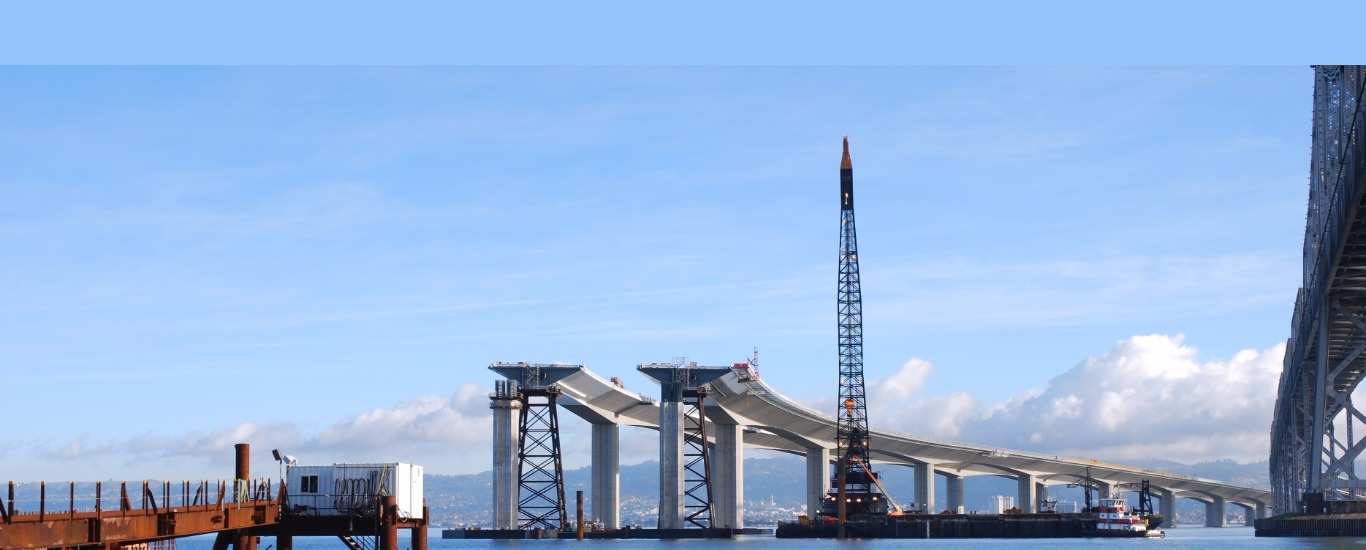
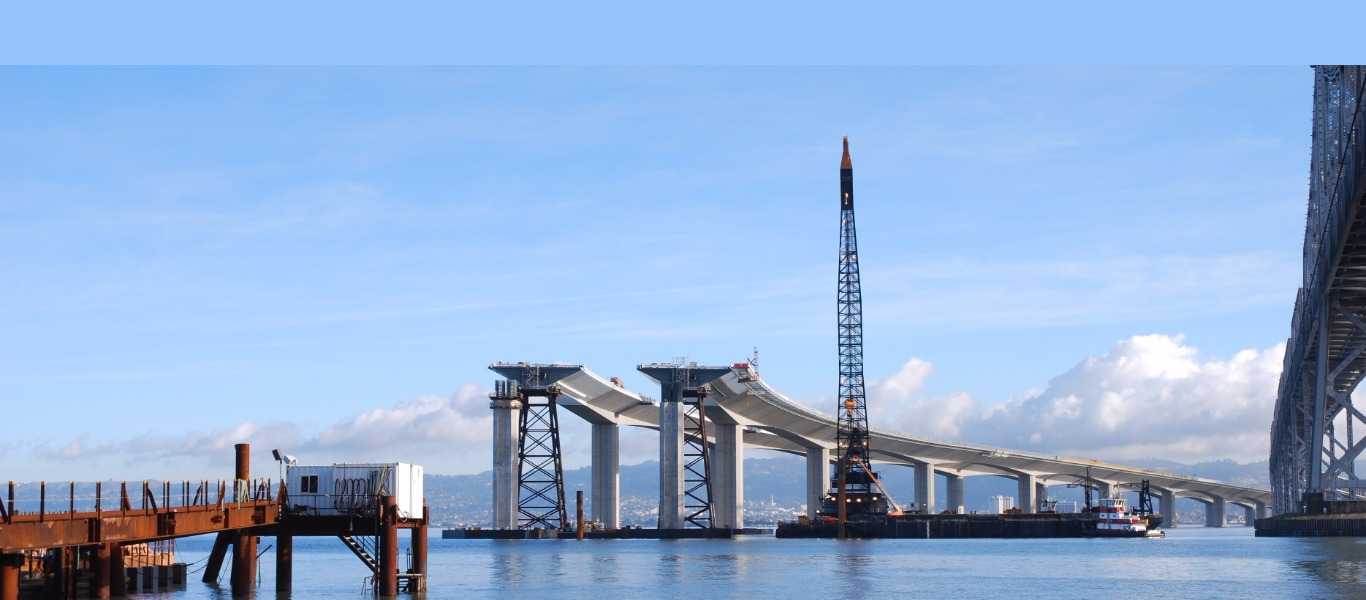
fit water slider upd

diff --git a/.history/index_20190212114750.html b/.history/index_20190212114750.html
@@ -101,6 +101,84 @@
                 </div>
                 <!-- END MasterSlider Main -->
                 <!-- About -->
+                <section id="white_space">
+                    <br>
+                    <br>
+                    <br>
+                </section>
+                <div id="FAQ" class="shortcode-html">
+                    <!-- Hero Info #15 -->
+                    <div class="g-bg-img-hero g-bg-pos-top-center g-bg-size-cover g-bg-cover g-bg-white-gradient-opacity-v4--after" style="background-image: url(assets/img/index/services/services_main.jpg);">
+                        <div class="container g-pos-rel g-z-index-1">
+                            <div class="row justify-content-between">
+                                <div class="col-md-5 g-py-100">
+                                    <div class="w-100"> 
+                                        <div class="g-brd-primary u-heading-v2-2--bottom"> 
+                                            <h2 class="text-uppercase g-line-height-1_1 g-font-weight-700 g-font-size-26 g-mb-15">SERVICES</h2> 
+                                            <p class="mb-0">Municon West Coast provides geotechnical and structural instrumentation services for monitoring of heavy construction works including highways, tunnels, deep excavations, heavy fills and bridges.</p>
+                                            <p class="mb-0">We upload, manage and host all of your content for you on our secure online servers, allowing you to interact with your content and your project team anytime, anywhere</p>
+                                        </div>                                         
+                                        <div id="FAQAccordion"> 
+                                            <div class="card g-brd-none"> 
+                                                <div id="FAQAccordionHeading1" class="card-header u-accordion__header g-pos-rel g-bg-transparent g-brd-none rounded-0 g-py-10 g-px-30"> 
+                                                    <a class="g-font-weight-700 g-font-size-18" href="#FAQAccordionBody1" aria-expanded="true" aria-controls="FAQAccordionBody1" data-toggle="collapse" data-parent="#FAQAccordion"> <span class="u-accordion__control-icon g-absolute-centered--y g-left-0 g-color-primary"> <i class="fa fa-plus"></i> <i class="fa fa-minus"></i> </span> 
+                        Photo and video documentation </a> 
+                                                </div>                                                 
+                                                <div id="FAQAccordionBody1" class="collapse show" aria-labelledby="FAQAccordionHeading1"> 
+                                                    <div class="card-block u-accordion__body g-py-10 g-px-30"> 
+                                                        <p class="g-line-height-1_5 mb-0">The photo and video documentation provides the contractor and property owners against unsupported claims of construction-generated damages</p>
+                                                        <br/>
+                                                        <a class="btn btn-md text-uppercase u-btn-darkgray g-font-weight-700 g-font-size-12 g-brd-none g-rounded-4 g-py-15 g-px-15 g-px-35--md" href="photo_video.html">read more</a> 
+                                                    </div>                                                     
+                                                </div>                                                 
+                                            </div>                                             
+                                            <div class="card g-brd-none"> 
+                                                <div id="FAQAccordionHeading2" class="card-header u-accordion__header g-pos-rel g-bg-transparent g-brd-none rounded-0 g-py-10 g-px-30"> 
+                                                    <a class="g-font-weight-700 g-font-size-18 collapsed" href="#FAQAccordionBody2" aria-expanded="false" aria-controls="FAQAccordionBody2" data-toggle="collapse" data-parent="#FAQAccordion"> <span class="u-accordion__control-icon g-absolute-centered--y g-left-0 g-color-primary"> <i class="fa fa-plus"></i> <i class="fa fa-minus"></i> </span> 
+                       Vibration Monitoring </a> 
+                                                </div>                                                 
+                                                <div id="FAQAccordionBody2" class="collapse" aria-labelledby="FAQAccordionHeading2"> 
+                                                    <div class="card-block u-accordion__body g-py-10 g-px-30"> 
+                                                        <p class="g-line-height-1_5 mb-0">Municon West Coast provides vibration monitoring of heavy construction operations such as blasting, mass excavation, pile driving, rapid impact compaction, heavy demolition, deep dynamic compaction, and ground improvement installation</p>
+                                                        <br/>
+                                                        <a class="btn btn-md text-uppercase u-btn-darkgray g-font-weight-700 g-font-size-12 g-brd-none g-rounded-4 g-py-15 g-px-15 g-px-35--md" href="vibration.html">read more</a> 
+                                                    </div>                                                     
+                                                </div>                                                 
+                                            </div>                                             
+                                            <div class="card g-brd-none"> 
+                                                <div id="FAQAccordionHeading3" class="card-header u-accordion__header g-pos-rel g-bg-transparent g-brd-none rounded-0 g-py-10 g-px-30"> 
+                                                    <a class="g-font-weight-700 g-font-size-18 collapsed" href="#FAQAccordionBody3" aria-expanded="false" aria-controls="FAQAccordionBody3" data-toggle="collapse" data-parent="#FAQAccordion"> <span class="u-accordion__control-icon g-absolute-centered--y g-left-0 g-color-primary"> <i class="fa fa-plus"></i> <i class="fa fa-minus"></i> </span> 
+                       Sound Monitoring </a> 
+                                                </div>                                                 
+                                                <div id="FAQAccordionBody3" class="collapse" aria-labelledby="FAQAccordionHeading3"> 
+                                                    <div class="card-block u-accordion__body g-py-10 g-px-30"> 
+                                                        <p class="g-line-height-1_5 mb-0">Municon West Coast provides long-term continuous sound monitoring with automated remote reading capabilities for documenting compliance with local noise ordinances</p>
+                                                        <br/>
+                                                        <a class="btn btn-md text-uppercase u-btn-darkgray g-font-weight-700 g-font-size-12 g-brd-none g-rounded-4 g-py-15 g-px-15 g-px-35--md" href="sound.html">read more</a> 
+                                                    </div>                                                     
+                                                </div>                                                 
+                                            </div>                                             
+                                            <div class="card g-brd-none"> 
+                                                <div id="FAQAccordionHeading4" class="card-header u-accordion__header g-pos-rel g-bg-transparent g-brd-none rounded-0 g-py-10 g-px-30"> 
+                                                    <a class="g-font-weight-700 g-font-size-18 collapsed" href="#FAQAccordionBody4" aria-expanded="false" aria-controls="FAQAccordionBody4" data-toggle="collapse" data-parent="#FAQAccordion"> <span class="u-accordion__control-icon g-absolute-centered--y g-left-0 g-color-primary"> <i class="fa fa-plus"></i> <i class="fa fa-minus"></i> </span> 
+                        Geotechnical Instrumentation </a> 
+                                                </div>                                                 
+                                                <div id="FAQAccordionBody4" class="collapse" aria-labelledby="FAQAccordionHeading4"> 
+                                                    <div class="card-block u-accordion__body g-py-10 g-px-30"> 
+                                                        <p class="g-line-height-1_5 mb-0">Municon West Coast provides geotechnical instrumentation services for heavy construction operations such as deep excavations, highways, bridges, dams, tunnels, and underpinning works. We offer a wide range of geotechnical instrumentation equipment</p>
+                                                        <br/>
+                                                        <a class="btn btn-md text-uppercase u-btn-darkgray g-font-weight-700 g-font-size-12 g-brd-none g-rounded-4 g-py-15 g-px-15 g-px-35--md" href="geotechnical.html">read more</a> 
+                                                    </div>                                                     
+                                                </div>                                                 
+                                            </div>                                             
+                                        </div>                                         
+                                    </div>
+                                </div>
+                            </div>
+                        </div>
+                    </div>
+                    <!-- Hero Info #15 -->
+                </div>
                 <!-- End About -->
                 <!-- Icon Blocks -->
                 <!-- End Icon Blocks -->
@@ -117,24 +195,6 @@
                     <div class="container text-center g-width-760 u-heading-v2-2--bottom g-brd-primary"> 
                         <h2 class="text-uppercase g-line-height-1_1 g-font-weight-700 g-font-size-26 g-mb-15">CONTACT US</h2> 
                         <p class="mb-0">We would be happy to answer your questions and inquiries</p> 
-                    </div>
-                    <div class="row">
-                        <div class="col-lg-8 offset-lg-2"> 
-                            <form> 
-                                <div class="row"> 
-                                    <div class="col-lg-12 form-group g-mb-20"> 
-                                        <input class="form-control g-font-size-default g-color-gray-dark-v5 g-placeholder-inherit g-bg-gray-light-v5 g-brd-gray-light-v5 g-brd-primary--focus g-color-gray-dark-v5 g-rounded-4 g-py-13 g-px-12" type="text" placeholder="Your name"> 
-                                    </div>                                     
-                                    <div class="col-lg-12 form-group g-mb-20"> 
-                                        <input class="form-control g-font-size-default g-color-gray-dark-v5 g-placeholder-inherit g-bg-gray-light-v5 g-brd-gray-light-v5 g-brd-primary--focus g-color-gray-dark-v5 g-rounded-4 g-py-13 g-px-12" type="tel" placeholder="Your email *"> 
-                                    </div>                                     
-                                    <div class="col-lg-12 form-group g-mb-20"> 
-                                        <textarea class="form-control g-font-size-default g-color-gray-dark-v5 g-placeholder-inherit g-resize-none g-bg-gray-light-v5 g-brd-gray-light-v5 g-brd-primary--focus g-color-gray-dark-v5 g-rounded-4 g-py-13 g-px-12" rows="5" placeholder="Message"></textarea>                                         
-                                    </div>                                     
-                                </div>                                 
-                                <button class="btn btn-md btn-block text-uppercase u-btn-primary g-font-weight-700 g-font-size-12 g-brd-none g-rounded-4 g-py-12 g-px-15" type="submit" role="button">Submit</button>                                 
-                            </form>                             
-                        </div>
                     </div>                     
                     <!-- Google Map -->                     
                     <!-- End Google Map -->                     
@@ -262,7 +322,7 @@
 
     slider.setup("masterslider", {
       width: 1366,
-      height: 600,
+      height: 650,
       minHeight: 0,
       space: 0,
       start: 1,

diff --git a/index_original_hero_size.html b/index_original_hero_size.html
@@ -101,6 +101,84 @@
                 </div>
                 <!-- END MasterSlider Main -->
                 <!-- About -->
+                <section id="white_space">
+                    <br>
+                    <br>
+                    <br>
+                </section>
+                <div id="FAQ" class="shortcode-html">
+                    <!-- Hero Info #15 -->
+                    <div class="g-bg-img-hero g-bg-pos-top-center g-bg-size-cover g-bg-cover g-bg-white-gradient-opacity-v4--after" style="background-image: url(assets/img/index/services/services_main.jpg);">
+                        <div class="container g-pos-rel g-z-index-1">
+                            <div class="row justify-content-between">
+                                <div class="col-md-5 g-py-100">
+                                    <div class="w-100"> 
+                                        <div class="g-brd-primary u-heading-v2-2--bottom"> 
+                                            <h2 class="text-uppercase g-line-height-1_1 g-font-weight-700 g-font-size-26 g-mb-15">SERVICES</h2> 
+                                            <p class="mb-0">Municon West Coast provides geotechnical and structural instrumentation services for monitoring of heavy construction works including highways, tunnels, deep excavations, heavy fills and bridges.</p>
+                                            <p class="mb-0">We upload, manage and host all of your content for you on our secure online servers, allowing you to interact with your content and your project team anytime, anywhere</p>
+                                        </div>                                         
+                                        <div id="FAQAccordion"> 
+                                            <div class="card g-brd-none"> 
+                                                <div id="FAQAccordionHeading1" class="card-header u-accordion__header g-pos-rel g-bg-transparent g-brd-none rounded-0 g-py-10 g-px-30"> 
+                                                    <a class="g-font-weight-700 g-font-size-18" href="#FAQAccordionBody1" aria-expanded="true" aria-controls="FAQAccordionBody1" data-toggle="collapse" data-parent="#FAQAccordion"> <span class="u-accordion__control-icon g-absolute-centered--y g-left-0 g-color-primary"> <i class="fa fa-plus"></i> <i class="fa fa-minus"></i> </span> 
+                        Photo and video documentation </a> 
+                                                </div>                                                 
+                                                <div id="FAQAccordionBody1" class="collapse show" aria-labelledby="FAQAccordionHeading1"> 
+                                                    <div class="card-block u-accordion__body g-py-10 g-px-30"> 
+                                                        <p class="g-line-height-1_5 mb-0">The photo and video documentation provides the contractor and property owners against unsupported claims of construction-generated damages</p>
+                                                        <br/>
+                                                        <a class="btn btn-md text-uppercase u-btn-darkgray g-font-weight-700 g-font-size-12 g-brd-none g-rounded-4 g-py-15 g-px-15 g-px-35--md" href="photo_video.html">read more</a> 
+                                                    </div>                                                     
+                                                </div>                                                 
+                                            </div>                                             
+                                            <div class="card g-brd-none"> 
+                                                <div id="FAQAccordionHeading2" class="card-header u-accordion__header g-pos-rel g-bg-transparent g-brd-none rounded-0 g-py-10 g-px-30"> 
+                                                    <a class="g-font-weight-700 g-font-size-18 collapsed" href="#FAQAccordionBody2" aria-expanded="false" aria-controls="FAQAccordionBody2" data-toggle="collapse" data-parent="#FAQAccordion"> <span class="u-accordion__control-icon g-absolute-centered--y g-left-0 g-color-primary"> <i class="fa fa-plus"></i> <i class="fa fa-minus"></i> </span> 
+                       Vibration Monitoring </a> 
+                                                </div>                                                 
+                                                <div id="FAQAccordionBody2" class="collapse" aria-labelledby="FAQAccordionHeading2"> 
+                                                    <div class="card-block u-accordion__body g-py-10 g-px-30"> 
+                                                        <p class="g-line-height-1_5 mb-0">Municon West Coast provides vibration monitoring of heavy construction operations such as blasting, mass excavation, pile driving, rapid impact compaction, heavy demolition, deep dynamic compaction, and ground improvement installation</p>
+                                                        <br/>
+                                                        <a class="btn btn-md text-uppercase u-btn-darkgray g-font-weight-700 g-font-size-12 g-brd-none g-rounded-4 g-py-15 g-px-15 g-px-35--md" href="vibration.html">read more</a> 
+                                                    </div>                                                     
+                                                </div>                                                 
+                                            </div>                                             
+                                            <div class="card g-brd-none"> 
+                                                <div id="FAQAccordionHeading3" class="card-header u-accordion__header g-pos-rel g-bg-transparent g-brd-none rounded-0 g-py-10 g-px-30"> 
+                                                    <a class="g-font-weight-700 g-font-size-18 collapsed" href="#FAQAccordionBody3" aria-expanded="false" aria-controls="FAQAccordionBody3" data-toggle="collapse" data-parent="#FAQAccordion"> <span class="u-accordion__control-icon g-absolute-centered--y g-left-0 g-color-primary"> <i class="fa fa-plus"></i> <i class="fa fa-minus"></i> </span> 
+                       Sound Monitoring </a> 
+                                                </div>                                                 
+                                                <div id="FAQAccordionBody3" class="collapse" aria-labelledby="FAQAccordionHeading3"> 
+                                                    <div class="card-block u-accordion__body g-py-10 g-px-30"> 
+                                                        <p class="g-line-height-1_5 mb-0">Municon West Coast provides long-term continuous sound monitoring with automated remote reading capabilities for documenting compliance with local noise ordinances</p>
+                                                        <br/>
+                                                        <a class="btn btn-md text-uppercase u-btn-darkgray g-font-weight-700 g-font-size-12 g-brd-none g-rounded-4 g-py-15 g-px-15 g-px-35--md" href="sound.html">read more</a> 
+                                                    </div>                                                     
+                                                </div>                                                 
+                                            </div>                                             
+                                            <div class="card g-brd-none"> 
+                                                <div id="FAQAccordionHeading4" class="card-header u-accordion__header g-pos-rel g-bg-transparent g-brd-none rounded-0 g-py-10 g-px-30"> 
+                                                    <a class="g-font-weight-700 g-font-size-18 collapsed" href="#FAQAccordionBody4" aria-expanded="false" aria-controls="FAQAccordionBody4" data-toggle="collapse" data-parent="#FAQAccordion"> <span class="u-accordion__control-icon g-absolute-centered--y g-left-0 g-color-primary"> <i class="fa fa-plus"></i> <i class="fa fa-minus"></i> </span> 
+                        Geotechnical Instrumentation </a> 
+                                                </div>                                                 
+                                                <div id="FAQAccordionBody4" class="collapse" aria-labelledby="FAQAccordionHeading4"> 
+                                                    <div class="card-block u-accordion__body g-py-10 g-px-30"> 
+                                                        <p class="g-line-height-1_5 mb-0">Municon West Coast provides geotechnical instrumentation services for heavy construction operations such as deep excavations, highways, bridges, dams, tunnels, and underpinning works. We offer a wide range of geotechnical instrumentation equipment</p>
+                                                        <br/>
+                                                        <a class="btn btn-md text-uppercase u-btn-darkgray g-font-weight-700 g-font-size-12 g-brd-none g-rounded-4 g-py-15 g-px-15 g-px-35--md" href="geotechnical.html">read more</a> 
+                                                    </div>                                                     
+                                                </div>                                                 
+                                            </div>                                             
+                                        </div>                                         
+                                    </div>
+                                </div>
+                            </div>
+                        </div>
+                    </div>
+                    <!-- Hero Info #15 -->
+                </div>
                 <!-- End About -->
                 <!-- Icon Blocks -->
                 <!-- End Icon Blocks -->
@@ -117,24 +195,6 @@
                     <div class="container text-center g-width-760 u-heading-v2-2--bottom g-brd-primary"> 
                         <h2 class="text-uppercase g-line-height-1_1 g-font-weight-700 g-font-size-26 g-mb-15">CONTACT US</h2> 
                         <p class="mb-0">We would be happy to answer your questions and inquiries</p> 
-                    </div>
-                    <div class="row">
-                        <div class="col-lg-8 offset-lg-2"> 
-                            <form> 
-                                <div class="row"> 
-                                    <div class="col-lg-12 form-group g-mb-20"> 
-                                        <input class="form-control g-font-size-default g-color-gray-dark-v5 g-placeholder-inherit g-bg-gray-light-v5 g-brd-gray-light-v5 g-brd-primary--focus g-color-gray-dark-v5 g-rounded-4 g-py-13 g-px-12" type="text" placeholder="Your name"> 
-                                    </div>                                     
-                                    <div class="col-lg-12 form-group g-mb-20"> 
-                                        <input class="form-control g-font-size-default g-color-gray-dark-v5 g-placeholder-inherit g-bg-gray-light-v5 g-brd-gray-light-v5 g-brd-primary--focus g-color-gray-dark-v5 g-rounded-4 g-py-13 g-px-12" type="tel" placeholder="Your email *"> 
-                                    </div>                                     
-                                    <div class="col-lg-12 form-group g-mb-20"> 
-                                        <textarea class="form-control g-font-size-default g-color-gray-dark-v5 g-placeholder-inherit g-resize-none g-bg-gray-light-v5 g-brd-gray-light-v5 g-brd-primary--focus g-color-gray-dark-v5 g-rounded-4 g-py-13 g-px-12" rows="5" placeholder="Message"></textarea>                                         
-                                    </div>                                     
-                                </div>                                 
-                                <button class="btn btn-md btn-block text-uppercase u-btn-primary g-font-weight-700 g-font-size-12 g-brd-none g-rounded-4 g-py-12 g-px-15" type="submit" role="button">Submit</button>                                 
-                            </form>                             
-                        </div>
                     </div>                     
                     <!-- Google Map -->                     
                     <!-- End Google Map -->                     
@@ -262,7 +322,7 @@
 
     slider.setup("masterslider", {
       width: 1366,
-      height: 600,
+      height: 550,
       minHeight: 0,
       space: 0,
       start: 1,

diff --git a/.history/contact_20190212114724.html b/.history/contact_20190212114724.html
@@ -90,7 +90,7 @@
             <!-- MasterSlider Main -->
             <div id="masterslider" class="master-slider ms-skin-default">
                 <div class="ms-slide" data-delay="5" data-fill-mode="fill">
-                    <img src="assets/img/slider/blank.gif" alt="" title="" data-src="assets/img/slider/slider5.jpg"/>
+                    <img src="assets/img/slider/blank.gif" alt="" title="" data-src="assets/img/slider/original.jpg"/>
                     <!-- <div class="ms-layer msp-cn-144-2" style="width:1100px;height:300px;" data-effect="t(true,n,n,n,n,n,n,n,1.2,1.2,n,n,n,n,n)" data-duration="3000" data-delay="400" data-ease="easeOutQuint" data-offset-x="0" data-offset-y="0" data-origin="mc" data-position="normal"></div> -->
                     <div class="ms-layer msp-cn-144-7" style="" data-effect="t(true,n,50,n,n,n,n,n,0.75,0.75,n,n,n,n,n)" data-duration="3000" data-delay="1000" data-ease="easeOutQuint" data-offset-x="-100" data-offset-y="-350" data-origin="mc" data-position="normal" data-masked="true">
 </div>
@@ -262,7 +262,7 @@
 
     slider.setup("masterslider", {
       width: 1366,
-      height: 600,
+      height: 1050,
       minHeight: 0,
       space: 0,
       start: 1,

diff --git a/.history/contact_20190212114652.html b/.history/contact_20190212114652.html
@@ -90,7 +90,7 @@
             <!-- MasterSlider Main -->
             <div id="masterslider" class="master-slider ms-skin-default">
                 <div class="ms-slide" data-delay="5" data-fill-mode="fill">
-                    <img src="assets/img/slider/blank.gif" alt="" title="" data-src="assets/img/slider/slider5.jpg"/>
+                    <img src="assets/img/slider/blank.gif" alt="" title="" data-src="assets/img/slider/original.jpg"/>
                     <!-- <div class="ms-layer msp-cn-144-2" style="width:1100px;height:300px;" data-effect="t(true,n,n,n,n,n,n,n,1.2,1.2,n,n,n,n,n)" data-duration="3000" data-delay="400" data-ease="easeOutQuint" data-offset-x="0" data-offset-y="0" data-origin="mc" data-position="normal"></div> -->
                     <div class="ms-layer msp-cn-144-7" style="" data-effect="t(true,n,50,n,n,n,n,n,0.75,0.75,n,n,n,n,n)" data-duration="3000" data-delay="1000" data-ease="easeOutQuint" data-offset-x="-100" data-offset-y="-350" data-origin="mc" data-position="normal" data-masked="true">
 </div>
@@ -262,7 +262,7 @@
 
     slider.setup("masterslider", {
       width: 1366,
-      height: 600,
+      height: 650,
       minHeight: 0,
       space: 0,
       start: 1,

diff --git a/.history/contact_20190212114711.html b/.history/contact_20190212114711.html
@@ -90,7 +90,7 @@
             <!-- MasterSlider Main -->
             <div id="masterslider" class="master-slider ms-skin-default">
                 <div class="ms-slide" data-delay="5" data-fill-mode="fill">
-                    <img src="assets/img/slider/blank.gif" alt="" title="" data-src="assets/img/slider/slider5.jpg"/>
+                    <img src="assets/img/slider/blank.gif" alt="" title="" data-src="assets/img/slider/original.jpg"/>
                     <!-- <div class="ms-layer msp-cn-144-2" style="width:1100px;height:300px;" data-effect="t(true,n,n,n,n,n,n,n,1.2,1.2,n,n,n,n,n)" data-duration="3000" data-delay="400" data-ease="easeOutQuint" data-offset-x="0" data-offset-y="0" data-origin="mc" data-position="normal"></div> -->
                     <div class="ms-layer msp-cn-144-7" style="" data-effect="t(true,n,50,n,n,n,n,n,0.75,0.75,n,n,n,n,n)" data-duration="3000" data-delay="1000" data-ease="easeOutQuint" data-offset-x="-100" data-offset-y="-350" data-origin="mc" data-position="normal" data-masked="true">
 </div>
@@ -262,7 +262,7 @@
 
     slider.setup("masterslider", {
       width: 1366,
-      height: 600,
+      height: 750,
       minHeight: 0,
       space: 0,
       start: 1,

diff --git a/.history/contact_20190212114527.html b/.history/contact_20190212114527.html
@@ -90,7 +90,7 @@
             <!-- MasterSlider Main -->
             <div id="masterslider" class="master-slider ms-skin-default">
                 <div class="ms-slide" data-delay="5" data-fill-mode="fill">
-                    <img src="assets/img/slider/blank.gif" alt="" title="" data-src="assets/img/slider/slider5.jpg"/>
+                    <img src="assets/img/slider/blank.gif" alt="" title="" data-src="assets/img/slider/original.jpg"/>
                     <!-- <div class="ms-layer msp-cn-144-2" style="width:1100px;height:300px;" data-effect="t(true,n,n,n,n,n,n,n,1.2,1.2,n,n,n,n,n)" data-duration="3000" data-delay="400" data-ease="easeOutQuint" data-offset-x="0" data-offset-y="0" data-origin="mc" data-position="normal"></div> -->
                     <div class="ms-layer msp-cn-144-7" style="" data-effect="t(true,n,50,n,n,n,n,n,0.75,0.75,n,n,n,n,n)" data-duration="3000" data-delay="1000" data-ease="easeOutQuint" data-offset-x="-100" data-offset-y="-350" data-origin="mc" data-position="normal" data-masked="true">
 </div>

diff --git a/.history/contact_20190212114741.html b/.history/contact_20190212114741.html
@@ -262,7 +262,7 @@
 
     slider.setup("masterslider", {
       width: 1366,
-      height: 600,
+      height: 650,
       minHeight: 0,
       space: 0,
       start: 1,
